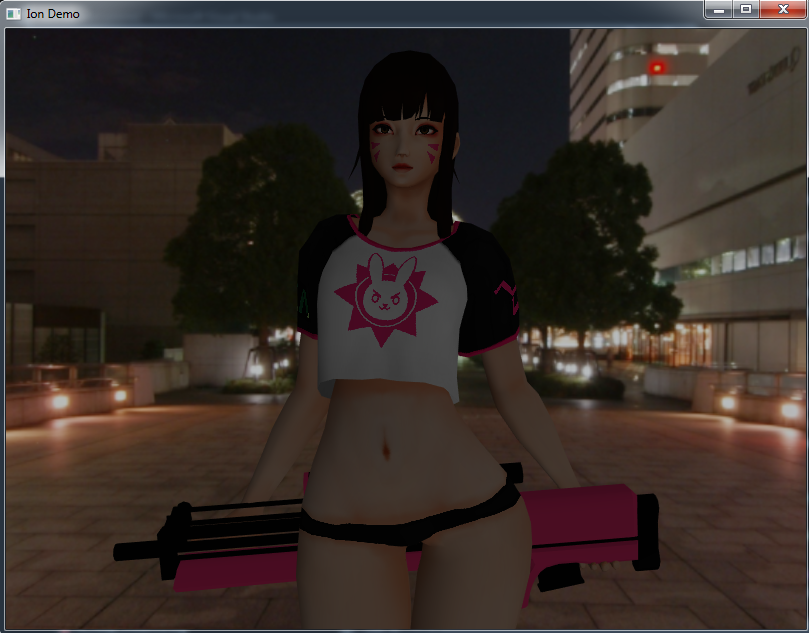
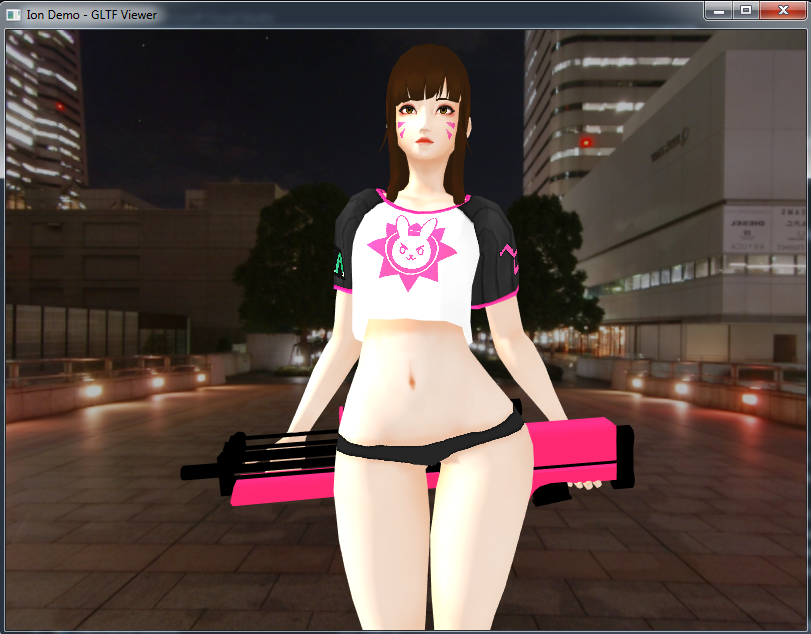
Update material and shader for not PBR Change the demo to increasing wheeling speed Update NO PBR screenshot Updated readme

diff --git a/Demo/Objects.cpp b/Demo/Objects.cpp
@@ -7,12 +7,12 @@ ionBool MainCamera::m_toggleLightRotation = false;
 //////////////////////////////////////////////////////////////////////////
 // ENTITIES
 
-RotatingEntity::RotatingEntity() : m_rotating(false), m_mouseSensitivity(0.05f), m_movementSpeed(10.0f), m_scale(1.0f)
+RotatingEntity::RotatingEntity() : m_rotating(false), m_mouseSensitivity(0.05f), m_movementSpeed(10.0f), m_incresingWheelSpeed(1.0f)
 {
 
 }
 
-RotatingEntity::RotatingEntity(const eosString & _name) : Entity(_name), m_rotating(false), m_mouseSensitivity(0.05f), m_movementSpeed(10.0f), m_scale(1.0f)
+RotatingEntity::RotatingEntity(const eosString & _name) : Entity(_name), m_rotating(false), m_mouseSensitivity(0.05f), m_movementSpeed(10.0f), m_incresingWheelSpeed(1.0f)
 {
 }
 
@@ -37,8 +37,6 @@ void RotatingEntity::OnUpdate(ionFloat _deltaTime)
 
         GetTransform().SetRotation(currRot);
     }
-
-    m_scale = VectorHelper::ExtractElement_0(GetTransform().GetScale());
 }
 
 void RotatingEntity::OnKeyboardInput(const ion::KeyboardState& _keyboardState, ionFloat _deltaTime)
@@ -49,22 +47,19 @@ void RotatingEntity::OnKeyboardInput(const ion::KeyboardState& _keyboardState, i
         {
             m_rotating = !m_rotating;
         }
+
+        if (_keyboardState.m_key == ion::EKeyboardKey_A)
+        {
+            m_incresingWheelSpeed = 1.0f;
+        }
     }
 
     if (_keyboardState.m_state == ion::EKeyboardState_Down)
     {
         if (_keyboardState.m_key == ion::EKeyboardKey_A)
         {
-            m_scale += 0.0001f;
-            m_scale = std::min(m_scale, std::numeric_limits<nixFloat>::max());
+            m_incresingWheelSpeed = 10.0f;
         }
-        if (_keyboardState.m_key == ion::EKeyboardKey_S)
-        {
-            m_scale -= 0.0001f;
-            m_scale = std::max(0.0f, m_scale);
-        }
-
-        GetTransform().SetScale(m_scale);
     }
 }
 
@@ -123,7 +118,7 @@ void RotatingEntity::OnMouseInput(const ion::MouseState& _mouseState, ionFloat _
         {
             static const Vector forward(0.0f, 0.0f, 1.0f, 0.0f);
 
-            ionFloat velocity = m_movementSpeed * _deltaTime;
+            ionFloat velocity = m_movementSpeed * m_incresingWheelSpeed * _deltaTime;
 
             const Quaternion& orientation = GetTransform().GetRotation();
 

diff --git a/Ion/Renderer/RenderManager.cpp b/Ion/Renderer/RenderManager.cpp
@@ -124,9 +124,6 @@ void RenderManager::GeneratePrimitive(EVertexLayout _layout, EPrimitiveType _typ
     case EPrimitiveType_Cube:
         PrimitiveFactory::GenerateCube(_layout, _entity);
         break;
-    case EPrimitiveType_Piramid:
-        PrimitiveFactory::GeneratePiramid(_layout, _entity);
-        break;
     case EPrimitiveType_Sphere:
         PrimitiveFactory::GenerateSphere(_layout, _entity);
         break;

diff --git a/Ion/Material/Material.cpp b/Ion/Material/Material.cpp
@@ -82,8 +82,6 @@ Material::Material(const eosString& _name) :
     m_useGlossiness(false),
     m_alphaMode(EAlphaMode_Opaque),
     m_isDiffuseLight(false),
-    m_isDiffuseNormal(false),
-    m_isDiffuse(false),
     m_topology(VK_PRIMITIVE_TOPOLOGY_TRIANGLE_LIST)
 {
 }

diff --git a/Demo/Objects.h b/Demo/Objects.h
@@ -20,7 +20,7 @@ public:
 private:
     ionFloat m_movementSpeed;
     ionFloat m_mouseSensitivity;
-    ionFloat m_scale;
+    ionFloat m_incresingWheelSpeed;
 
     ionBool m_rotating;
 };

diff --git a/README.md b/README.md
@@ -69,13 +69,11 @@ The controls in this demo test are:
 * Hold right mouse button in order to pan right or left and up or down the object
 * Use the mouse wheel to go toward or far away the object
 * Press R to auto rotate the model
-* Press A and S to increase or decrease the scale respectively
+* Hold key A increase x 10 the wheel speed of the mouse
 
 Pressing the key L, you can change the control from the model to the light
 In this case, toggling the L key you will have:
 * Hold left mouse button in order to rotate the light
-* Hold right mouse button in order to change the direction of the light from right or left and up or down
-* Use the mouse wheel in order to change the direction of the light in forward
 
 To Debug PBR (this works just with the 7th test for now because is the only one using the PBR shader)
 You need to have defined ION_PBR_DEBUG (by default is defined)
